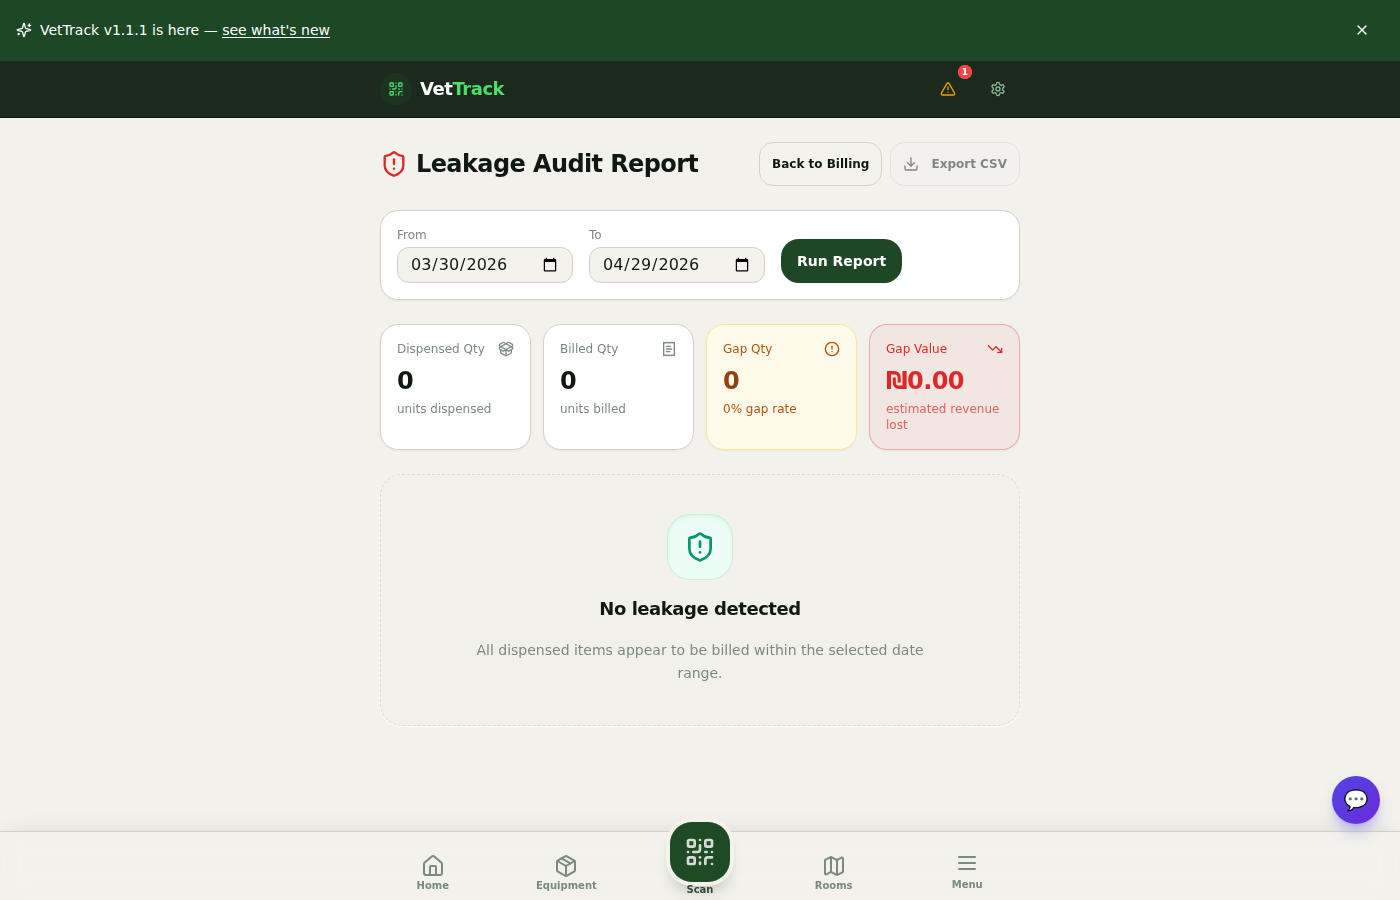
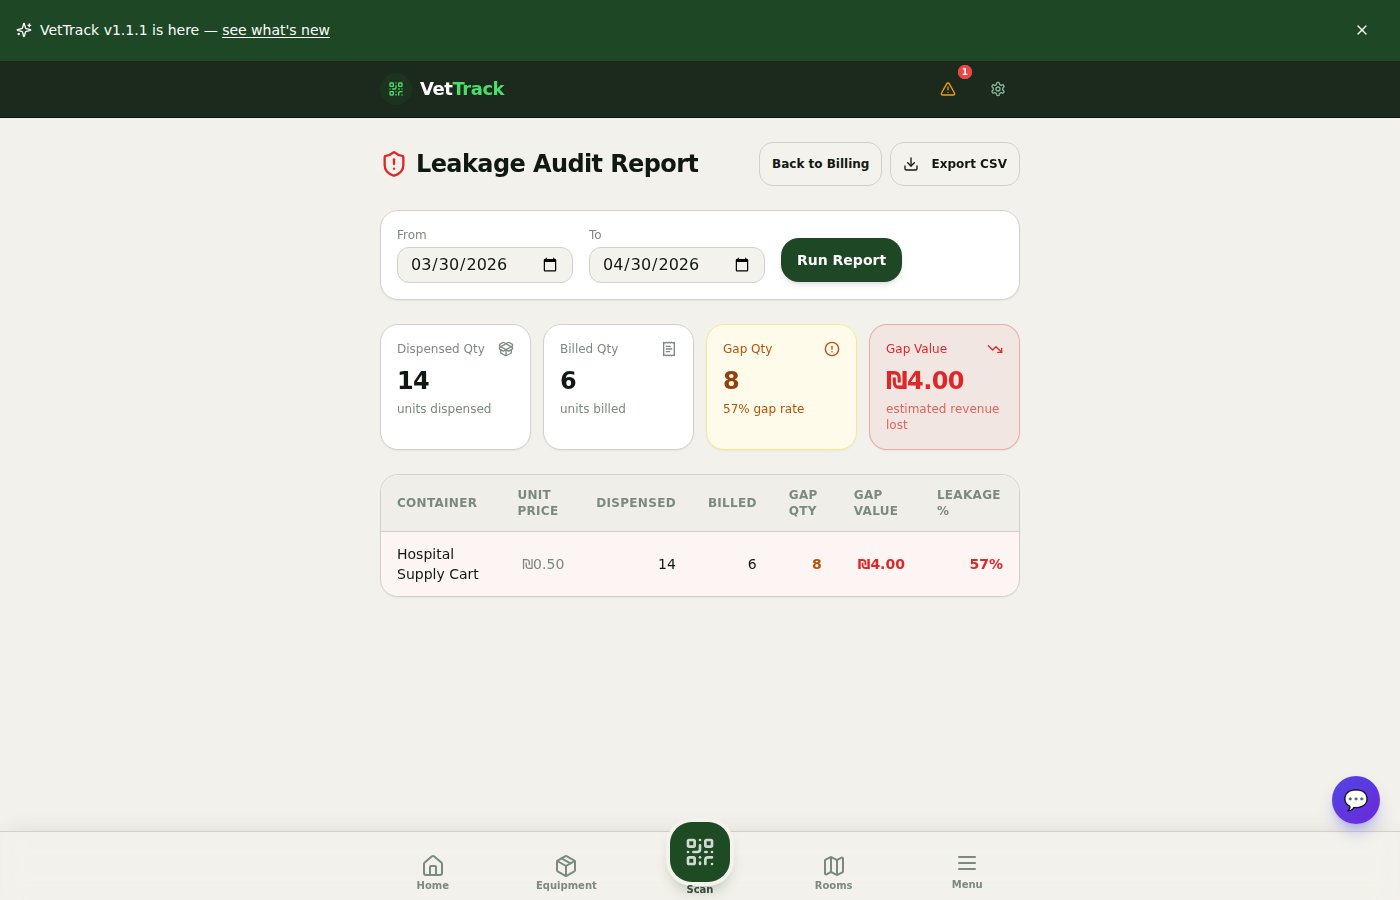
fix(investor-deck): fix billing and audit screenshots
- Use addInitScript to set vettrack_onboarding_v1 before React mounts,
  reliably preventing the onboarding modal from blocking any screenshot
- Billing: set "To" date to tomorrow and click Run Report so today's
  seeded records (created after midnight) fall within the query window;
  report now shows 14 dispensed / 6 billed / 8 gap / 57% leakage
- Audit: seed 6 additional entries (audit-5 through audit-10) covering
  EQUIPMENT_CREATED, CHECKOUT, EQUIPMENT_VERIFY, EQUIPMENT_UPDATED,
  RETURN action types; page now shows 10 entries across 2 pages

https://claude.ai/code/session_018bVKw32p5919xrZwt7WZFX

diff --git a/scripts/capture-investor-deck-screenshots.ts b/scripts/capture-investor-deck-screenshots.ts
@@ -84,6 +84,11 @@ async function main(): Promise<void> {
   });
   const page = await browser.newPage({ viewport: { width: 1400, height: 900 } });
 
+  // Inject localStorage keys before any page script runs so React never shows the onboarding modal.
+  await page.addInitScript(() => {
+    localStorage.setItem("vettrack_onboarding_v1", "1");
+  });
+
   page.on("console", (msg) => {
     if (msg.type() === "error") {
       console.warn(`[browser ${msg.type()}] ${msg.text()}`);
@@ -110,19 +115,34 @@ async function main(): Promise<void> {
         console.warn(`  skip ${file}: not signed in (need pnpm dev + DATABASE_URL + dev-bypass auth)`);
         continue;
       }
-      // Dismiss onboarding walkthrough so it never blocks screenshots.
-      await page.evaluate(() => {
-        localStorage.setItem("vettrack_onboarding_v1", "1");
-        // Close the modal if already rendered by clicking the Skip/X button.
-        const closeBtn = document.querySelector<HTMLElement>("[data-onboarding-close], button[aria-label='Close']");
-        if (closeBtn) closeBtn.click();
-      });
-      // If the modal is still visible, click Skip.
-      const skipBtn = page.locator("text=Skip").first();
-      if (await skipBtn.isVisible({ timeout: 1000 }).catch(() => false)) {
-        await skipBtn.click();
+      await new Promise((r) => setTimeout(r, 2000));
+
+      // Billing leakage page: push "to" date to tomorrow so today's seeded
+      // records (created after midnight) fall within the range, then run report.
+      if (pth === "/billing/leakage") {
+        const tomorrow = new Date();
+        tomorrow.setDate(tomorrow.getDate() + 1);
+        const toStr = tomorrow.toISOString().slice(0, 10); // YYYY-MM-DD
+        await page.evaluate((val) => {
+          const inputs = Array.from(document.querySelectorAll<HTMLInputElement>("input[type='date']"));
+          // Second date input is "To"
+          const toInput = inputs[1];
+          if (toInput) {
+            const nativeInputValueSetter = Object.getOwnPropertyDescriptor(window.HTMLInputElement.prototype, "value")?.set;
+            nativeInputValueSetter?.call(toInput, val);
+            toInput.dispatchEvent(new Event("input", { bubbles: true }));
+            toInput.dispatchEvent(new Event("change", { bubbles: true }));
+          }
+        }, toStr);
+        await new Promise((r) => setTimeout(r, 500));
+        const runBtn = page.getByRole("button", { name: /run report/i });
+        if (await runBtn.isVisible({ timeout: 3000 }).catch(() => false)) {
+          await runBtn.click();
+          await new Promise((r) => setTimeout(r, 3000));
+        }
       }
-      await new Promise((r) => setTimeout(r, settleMs ?? 4000));
+
+      await new Promise((r) => setTimeout(r, settleMs ?? 2000));
       await page.screenshot({ path: join(outDir, file), fullPage: true, animations: "disabled" });
       console.info(`  wrote ${file}`);
     } catch (e) {

diff --git a/scripts/seed-investor-deck-demo.ts b/scripts/seed-investor-deck-demo.ts
@@ -14,7 +14,7 @@
  *   pnpm deck:capture
  */
 import "dotenv/config";
-import { subHours, subMinutes } from "date-fns";
+import { subHours, subMinutes, subDays } from "date-fns";
 import { and, eq, inArray, like } from "drizzle-orm";
 import {
   animals,
@@ -392,6 +392,66 @@ async function main(): Promise<void> {
       targetType: "user",
       metadata: { role: "admin" },
       timestamp: subHours(now, 30),
+    },
+    {
+      id: `${PREFIX}-audit-5`,
+      actionType: "EQUIPMENT_CREATED",
+      performedBy: DEV_USER_ID,
+      performedByEmail: "admin@vettrack.dev",
+      targetId: `${PREFIX}-eq-defib`,
+      targetType: "equipment",
+      metadata: { name: "Defibrillator" },
+      timestamp: subHours(now, 2),
+    },
+    {
+      id: `${PREFIX}-audit-6`,
+      actionType: "CHECKOUT",
+      performedBy: DEV_USER_ID,
+      performedByEmail: "admin@vettrack.dev",
+      targetId: `${PREFIX}-eq-xray`,
+      targetType: "equipment",
+      metadata: { location: "Radiology" },
+      timestamp: subMinutes(now, 90),
+    },
+    {
+      id: `${PREFIX}-audit-7`,
+      actionType: "EQUIPMENT_VERIFY",
+      performedBy: DEV_USER_ID,
+      performedByEmail: "admin@vettrack.dev",
+      targetId: `${PREFIX}-eq-anes`,
+      targetType: "equipment",
+      metadata: { scanned: true, location: "Theatre 1" },
+      timestamp: subMinutes(now, 55),
+    },
+    {
+      id: `${PREFIX}-audit-8`,
+      actionType: "EQUIPMENT_UPDATED",
+      performedBy: DEV_USER_ID,
+      performedByEmail: "admin@vettrack.dev",
+      targetId: `${PREFIX}-eq-drill`,
+      targetType: "equipment",
+      metadata: { status: "needs_attention", note: "Reported issue" },
+      timestamp: subDays(now, 1),
+    },
+    {
+      id: `${PREFIX}-audit-9`,
+      actionType: "RETURN",
+      performedBy: DEV_USER_ID,
+      performedByEmail: "admin@vettrack.dev",
+      targetId: `${PREFIX}-eq-monitor`,
+      targetType: "equipment",
+      metadata: { location: "Recovery ward" },
+      timestamp: subHours(now, 3),
+    },
+    {
+      id: `${PREFIX}-audit-10`,
+      actionType: "EQUIPMENT_VERIFY",
+      performedBy: DEV_USER_ID,
+      performedByEmail: "admin@vettrack.dev",
+      targetId: `${PREFIX}-eq-pump`,
+      targetType: "equipment",
+      metadata: { scanned: true, location: "ICU — Bay 3" },
+      timestamp: subMinutes(now, 15),
     },
   ];
 
